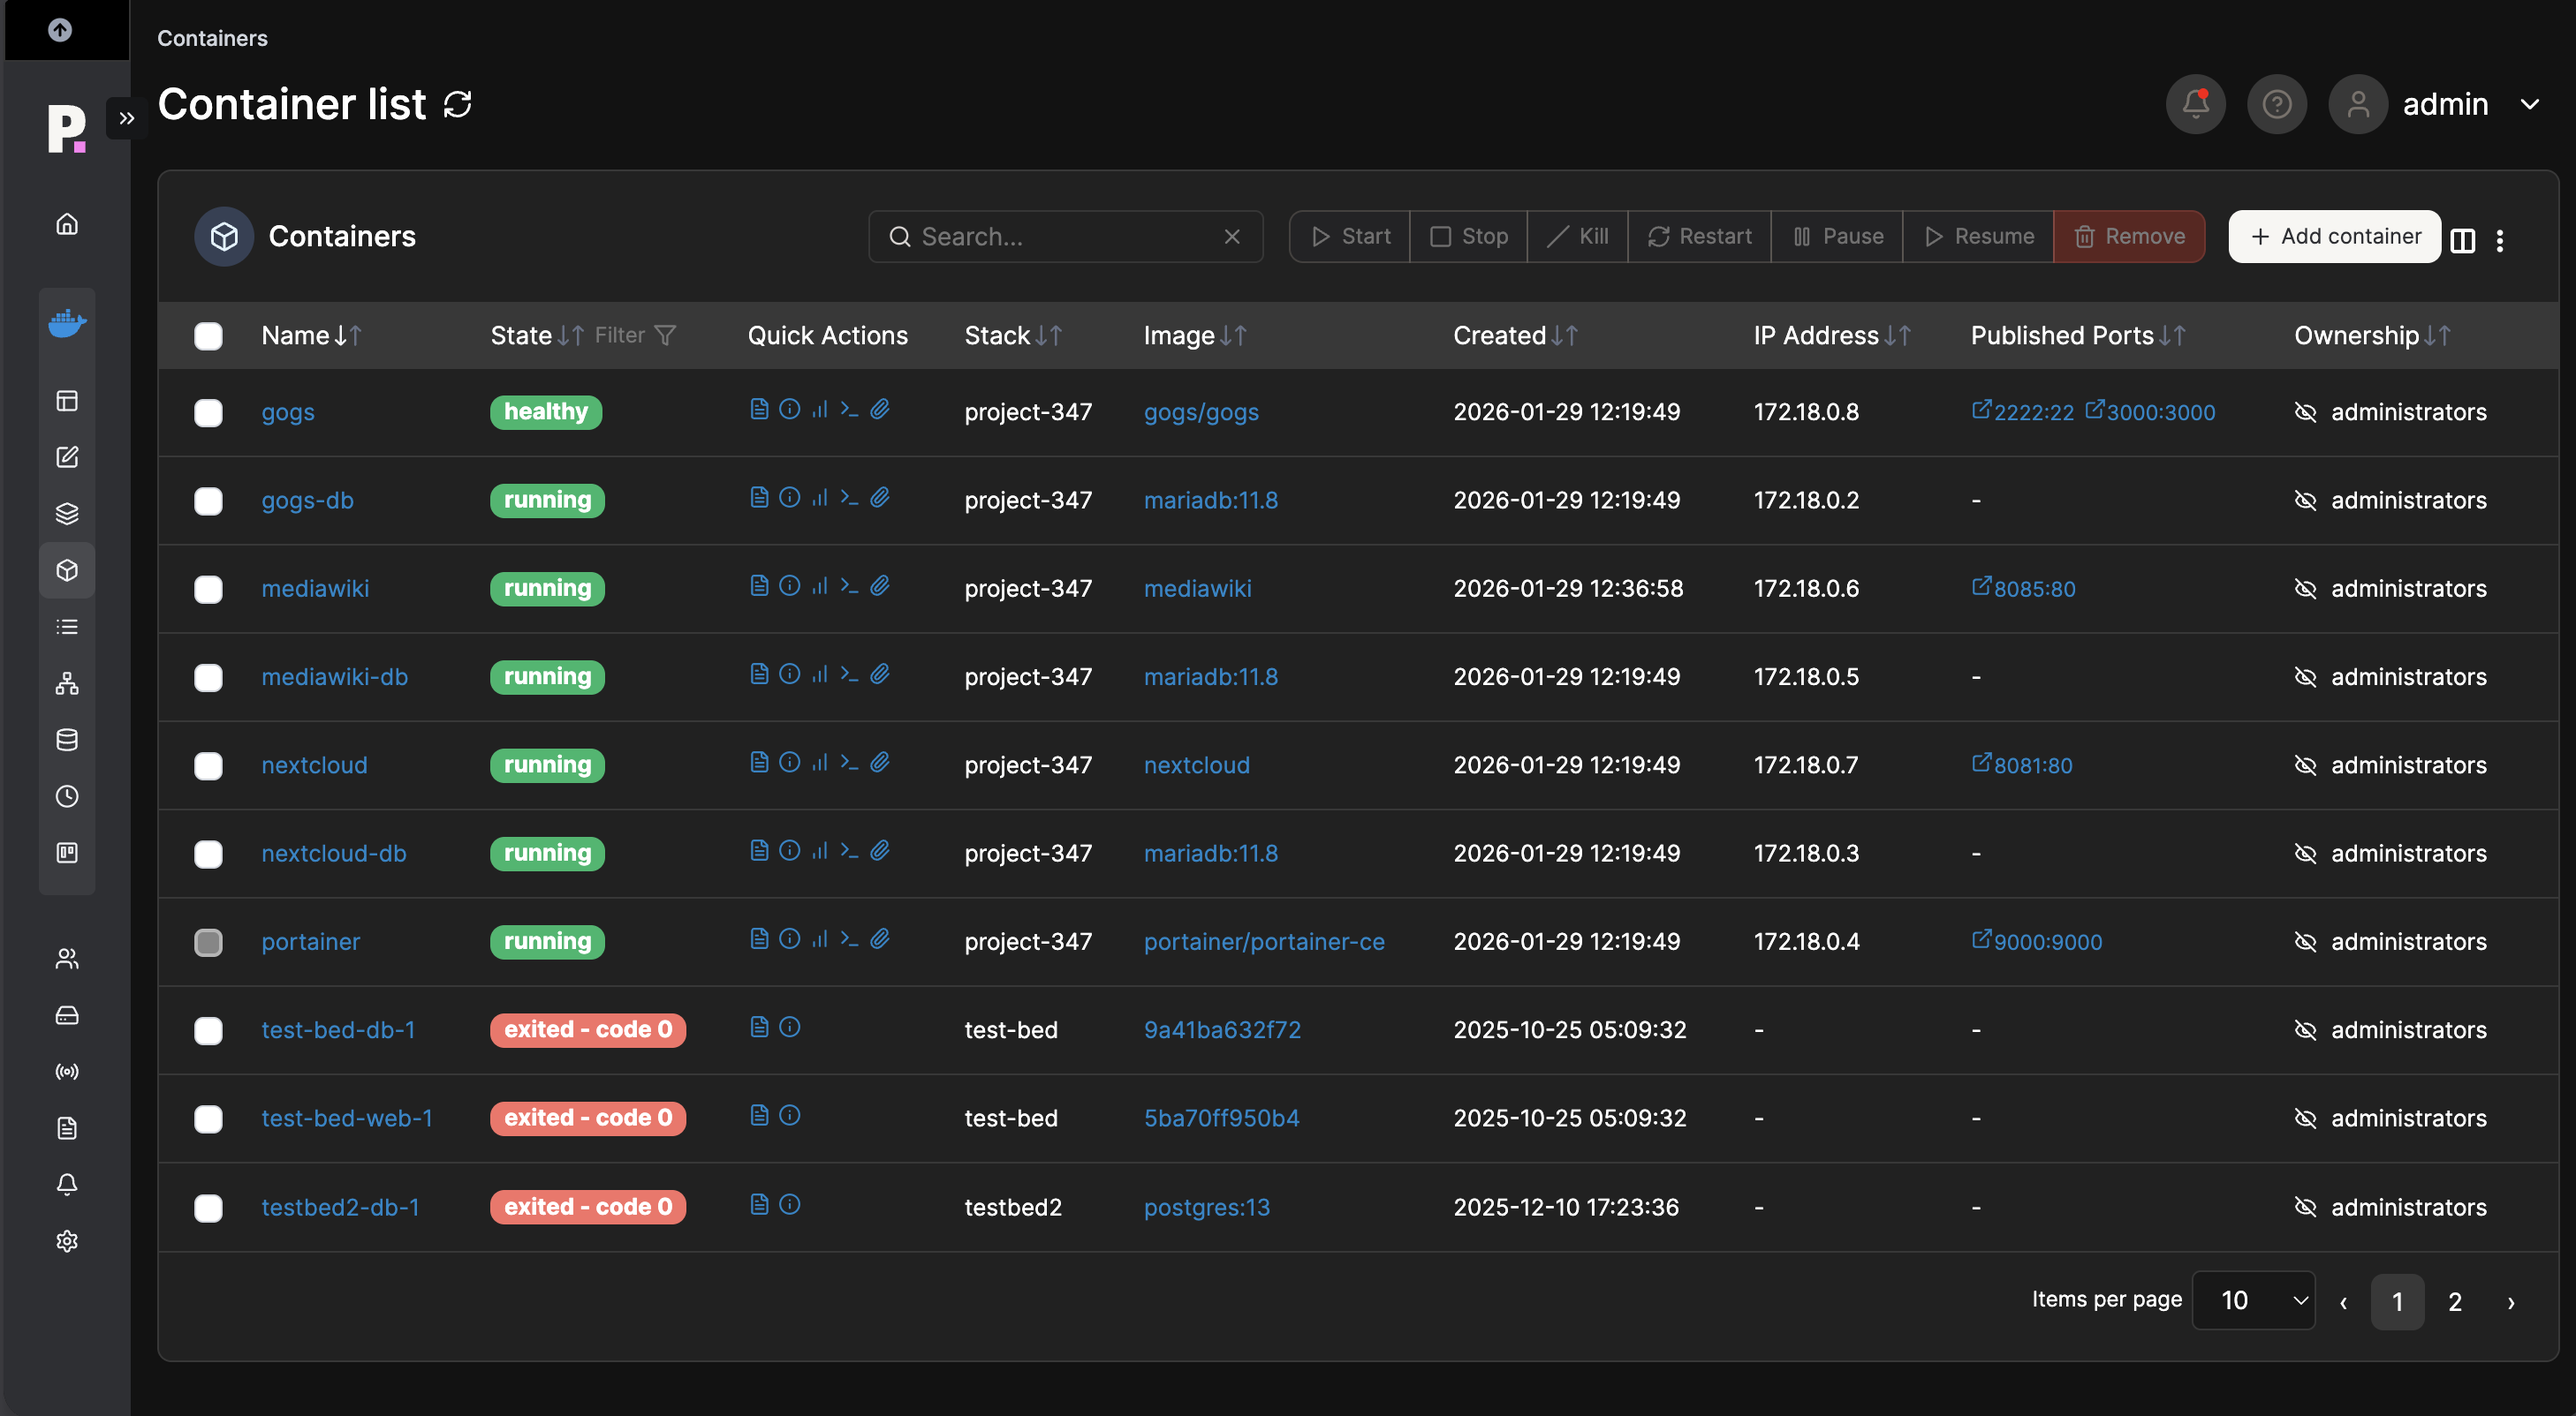
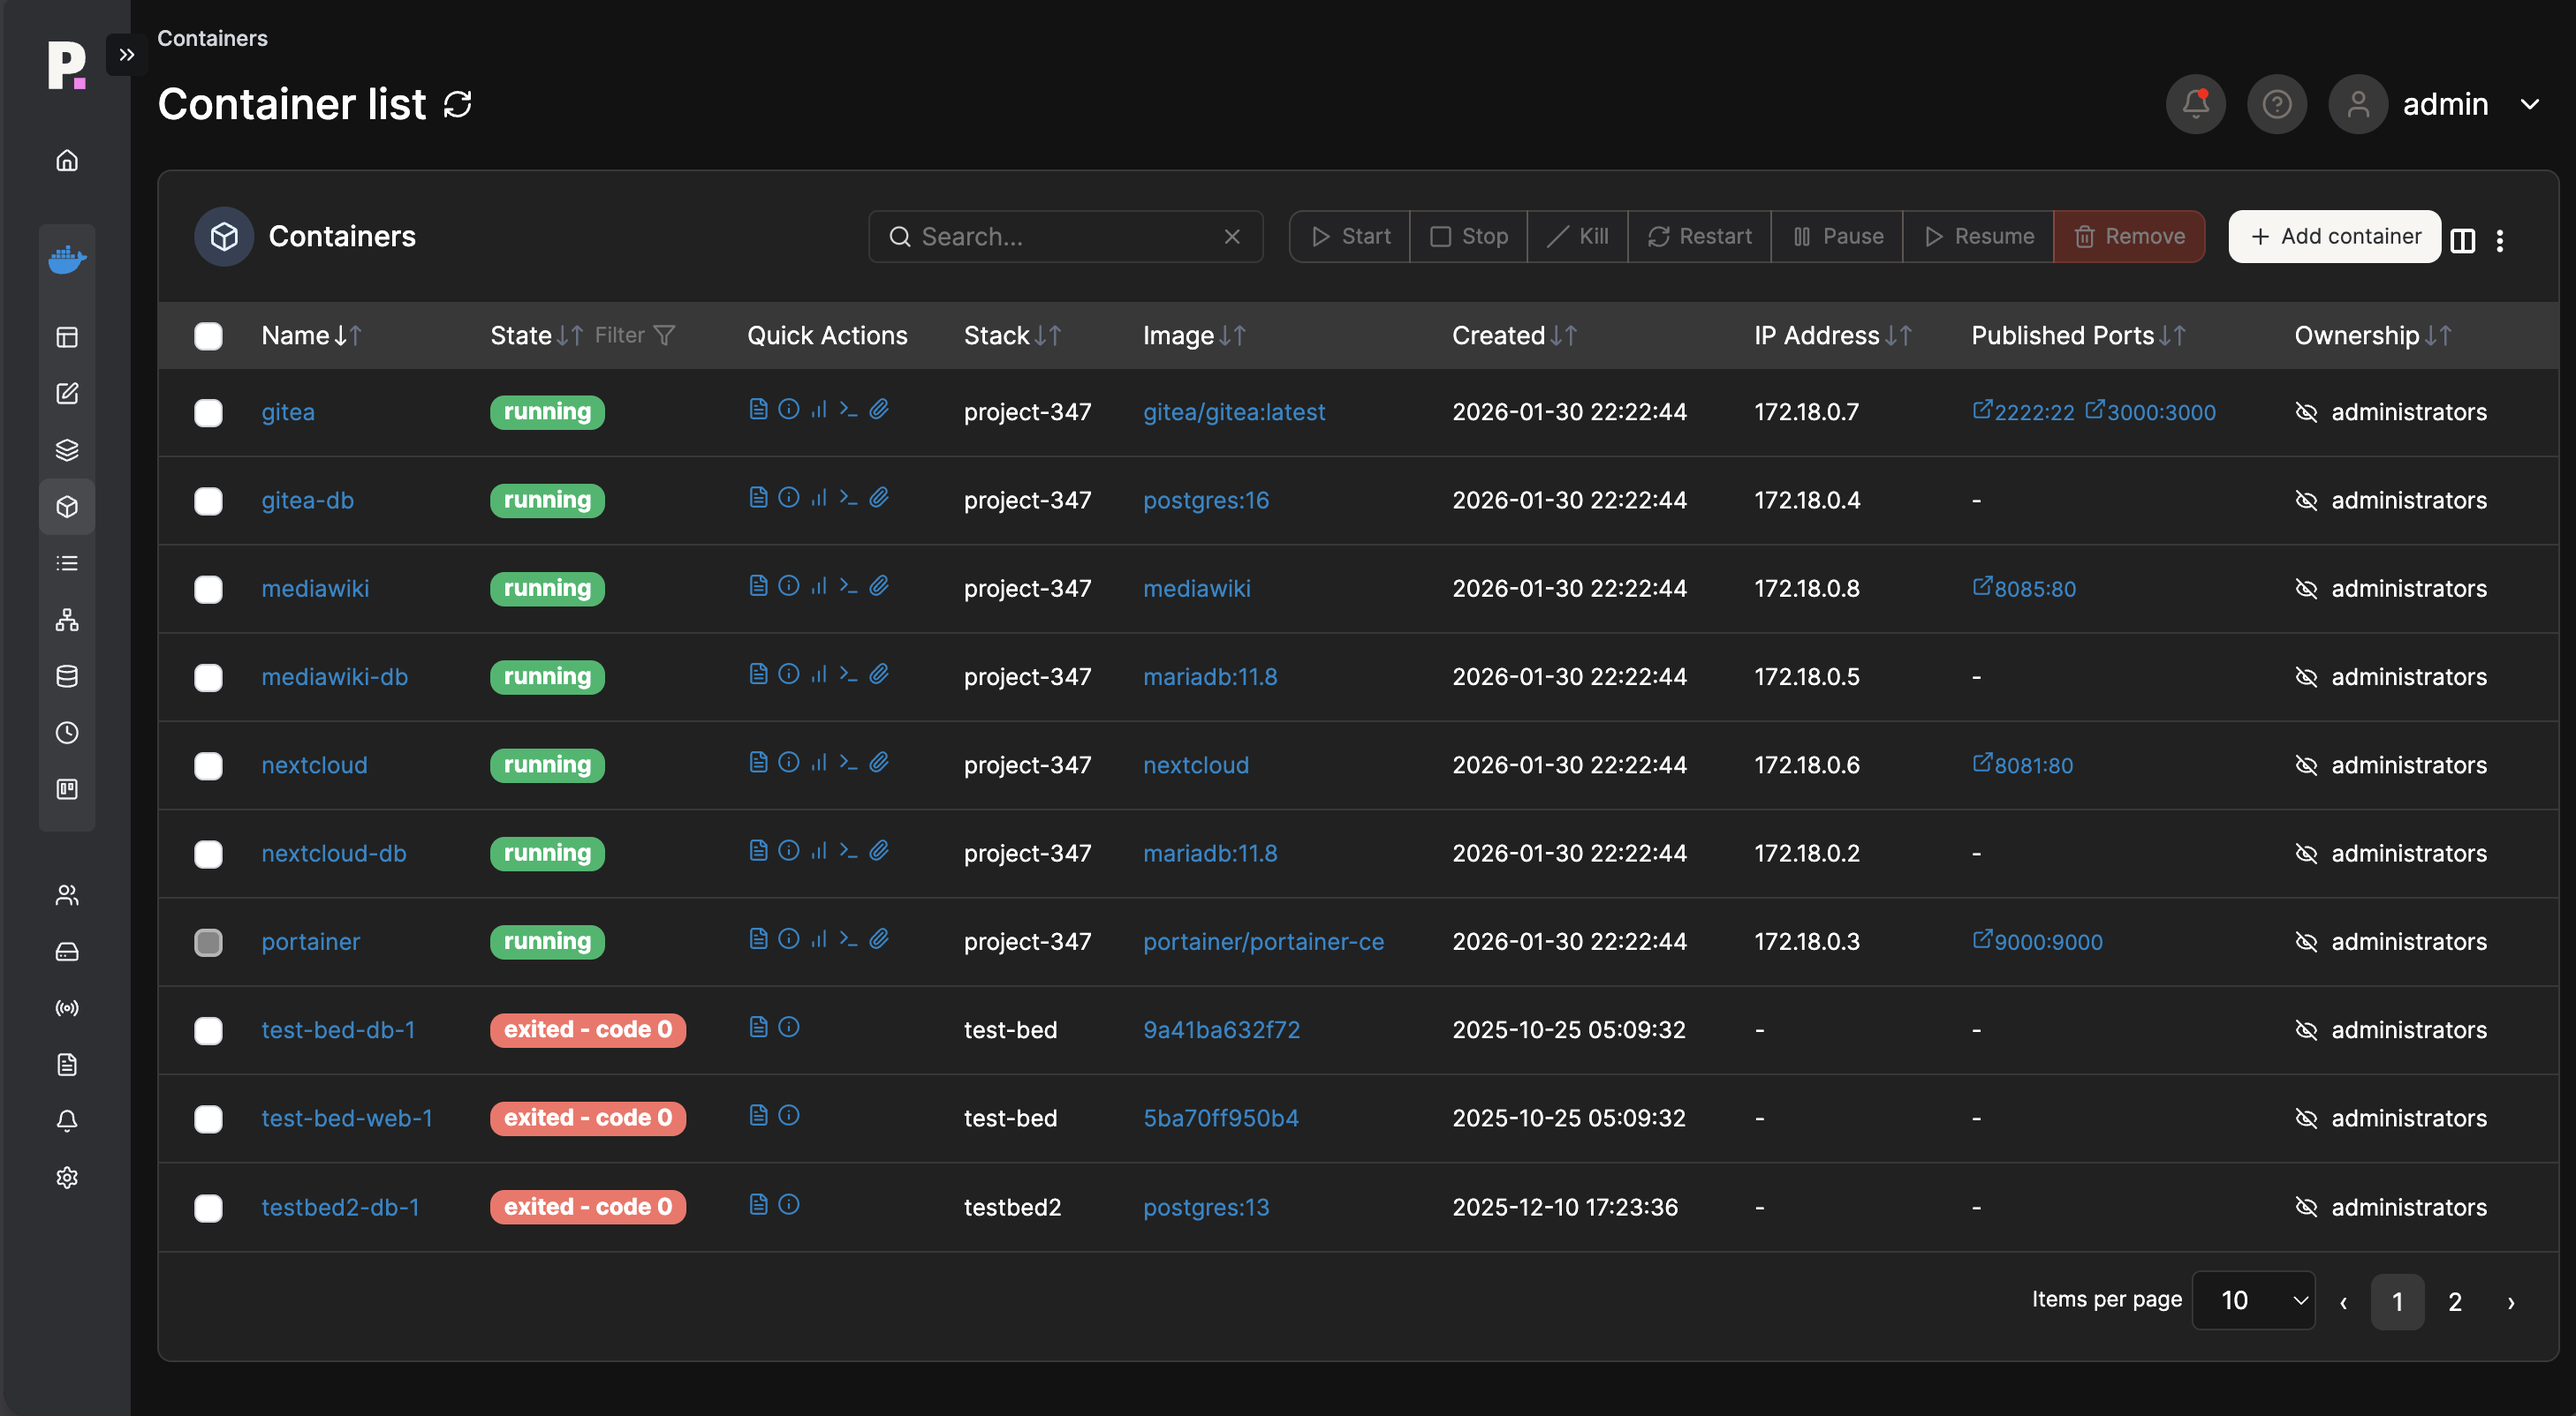
documentation: exchange images

diff --git a/documentation.md b/documentation.md
@@ -290,7 +290,7 @@ Die Tests wurden in einer kontrollierten Umgebung durchgeführt, welche dem gepl
 | T3        | Repository erstellen | Repository wird erfolgreich angelegt                                                                         | OK       |
 | T4        | Neustart Container   | Container kann erfolgreich neugestartet werden, erneutes Login ist möglich und Repository ist noch vorhanden | OK       |
 
-![Gitea](./images/KMU_gogs.png)
+![Gitea](./images/KMU_gitea.png)
 
 ---
 # 7. Sicherheitskonzept
